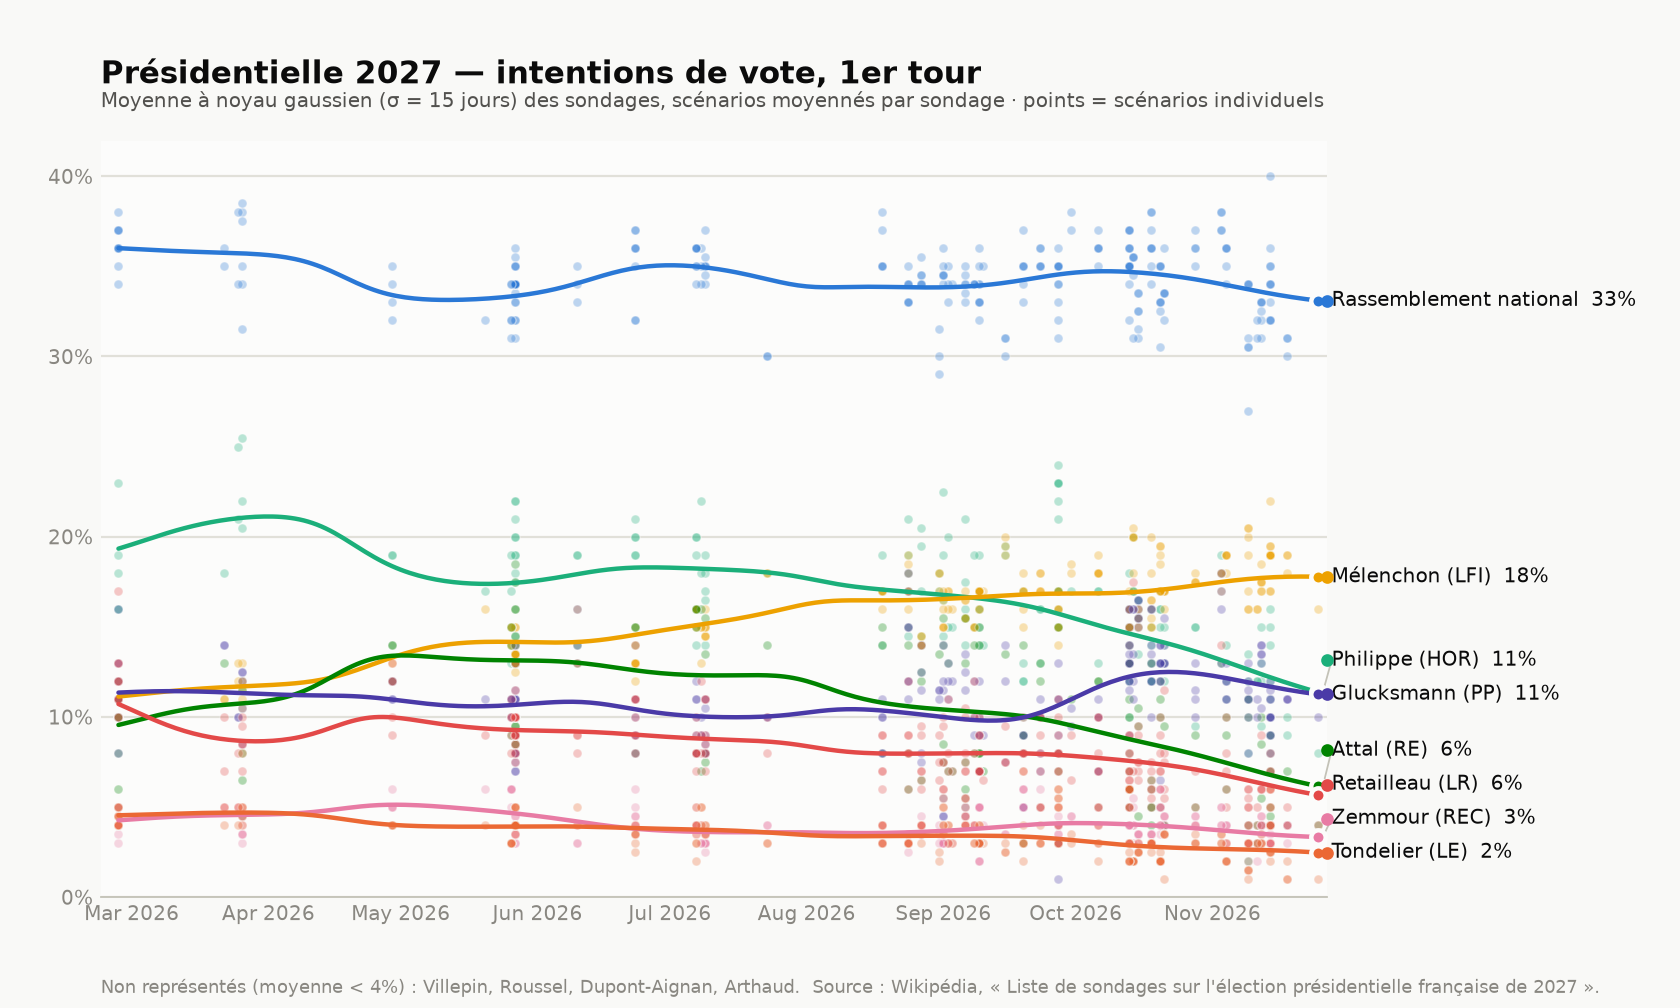
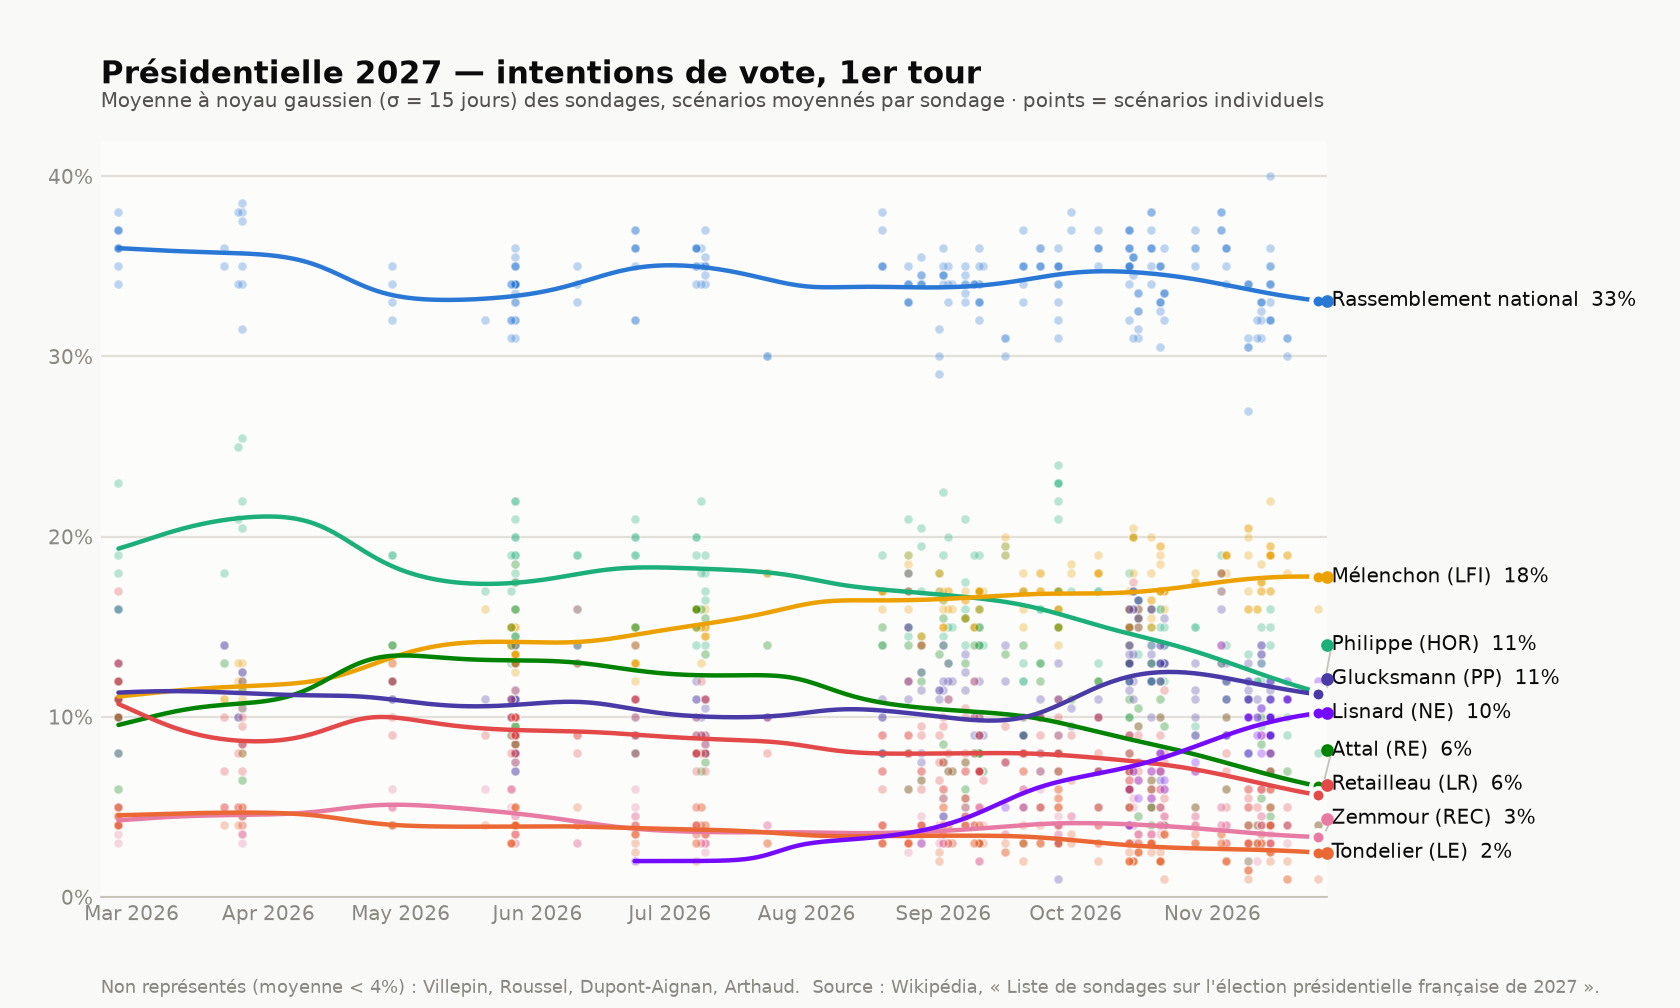
Plot Lisnard on the first-round charts
Lisnard_NE now polls 8-14% in the October-November tables, so he joins
SERIES in visualize_polls.py and appears on the trend, recent-trend and
per-pollster charts. He keeps the colour already validated for the runoff
charts; visualize_second_round.py now reads it from SERIES.

Each smoothed first-round line now starts at that candidate's own first
poll instead of the chart's start date, so Lisnard's line no longer
extrapolates a flat 2% back to March.

Re-checked against the live Wikipedia page (2026-11-28): no new polls
since deb2c53. The only difference is the known "OpinonWay" typo, which
stays corrected.

diff --git a/visualize_polls.py b/visualize_polls.py
@@ -45,6 +45,12 @@ SERIES = {
     "Retailleau_LR": ("Retailleau (LR)",        "#e34948", "#e66767"),
     "Zemmour_REC":   ("Zemmour (REC)",          "#e87ba4", "#d55181"),
     "Tondelier_LE":  ("Tondelier (LE)",         "#eb6834", "#d95926"),
+    # Added 2026-11-28: Lisnard now polls 8-14% in the October-November
+    # tables. Colour carried over unchanged from visualize_second_round.py,
+    # where it was validated (OKLCH sweep, port of validate_palette.js) against
+    # all eight colours above plus Ruffin and Hollande: worst CVD dE 8.6 light
+    # / 8.0 dark (deutan, vs. RN), lightness, chroma and contrast PASS.
+    "Lisnard_NE":    ("Lisnard (NE)",           "#740bfe", "#7a3ffe"),
 }
 
 # Consistently minor candidates left off the chart (kept in the footnote so
@@ -197,8 +203,12 @@ def plot_trend(poll_means, raw_points, theme, dark, sigma, out, title, subtitle)
         xs, ys = zip(*raw_points[cand])
         ax.scatter(xs, ys, s=16, color=color, alpha=0.3,
                    edgecolors=theme["surface"], linewidths=0.6, zorder=2)
-        smooth = gaussian_smooth(pts, grid, sigma)
-        ax.plot(grid, smooth, color=color, linewidth=2,
+        # Start the line at the candidate's own first poll: a late entrant
+        # (Lisnard, first polled late June 2026) would otherwise get a flat
+        # line extrapolated back to the start of the chart.
+        cand_grid = [t for t in grid if t >= pts[0][0]]
+        smooth = gaussian_smooth(pts, cand_grid, sigma)
+        ax.plot(cand_grid, smooth, color=color, linewidth=2,
                 solid_capstyle="round", solid_joinstyle="round", zorder=3)
         # end marker with a surface ring so it survives line crossings
         ax.scatter([grid[-1]], [smooth[-1]], s=42, color=color, zorder=4,

diff --git a/visualize_second_round.py b/visualize_second_round.py
@@ -54,16 +54,9 @@ CHALLENGERS = {
     # for the whole set are the pre-existing Ruffin/Attal (light) and
     # RN/Glucksmann, Ruffin/Melenchon (dark) pairs, not this slot.
     "Hollande_PS":    ("Hollande (PS)", "#991b5e", "#b43d83"),
-    # Lisnard has no first-round SERIES slot (consistently minor there), so this
-    # is a fresh pick, swept in OKLCH against the nine other committed colors
-    # with a Python port of validate_palette.js's exact math (node is not
-    # available in this environment; the port was sanity-checked by round-
-    # tripping every already-committed hex through it before use). Light
-    # #740bfe: worst CVD dE 8.6 (deutan, vs. RN), worst normal-vision dE 15.2
-    # (vs. Glucksmann); contrast 6.35. Dark #7a3ffe: worst CVD dE 8.0 (deutan,
-    # vs. RN), worst normal-vision dE 15.9 (vs. Glucksmann); contrast 3.29.
-    # Lightness band, chroma floor and contrast all PASS in both modes.
-    "Lisnard_NE":     ("Lisnard (NE)", "#740bfe", "#7a3ffe"),
+    # Lisnard's colour now lives in the first-round SERIES (see the
+    # validation note there).
+    "Lisnard_NE":     SERIES["Lisnard_NE"],
 }
 
 RN_CANDIDATES = {

diff --git a/CLAUDE.md b/CLAUDE.md
@@ -116,7 +116,8 @@ annotation rows over 15- and 16-column tables).
 ## Visualizations
 
 `visualize_polls.py` reads `polls_2027_presidential_first_round.csv` and
-renders three PNGs: the overall trend (Gaussian-smoothed per candidate), a
+renders three PNGs: the overall trend (Gaussian-smoothed per candidate, each
+line starting at that candidate's first poll), a
 recent-period zoom (`--recent-days`), and a per-pollster comparison (latest
 poll per institute + a smoothed-average row). `visualize_second_round.py`
 reads `polls_2027_second_round.csv` and renders a trend chart (each
@@ -125,7 +126,8 @@ and a snapshot chart (most recent poll per match-up, as a stacked bar split
 at the 50% majority line, restricted to the RN candidates in
 `SNAPSHOT_RN_CANDIDATES` — Le Pen only, since Bardella is no longer running). Both scripts share the `SERIES` color/label map
 and `THEMES` (light/dark) from `visualize_polls.py`, so a candidate's color
-is consistent across every chart in the repo — reuse those rather than
+is consistent across every chart in the repo (Lisnard is in `SERIES` and
+must stay on the first-round charts, at the user's request) — reuse those rather than
 hand-rolling new colors for a candidate who already appears elsewhere. Any
 genuinely new color (e.g. Ruffin, who only appears in runoff polls) must be
 checked with the dataviz skill's `scripts/validate_palette.js` against the

diff --git a/README.md b/README.md
@@ -76,6 +76,11 @@ same way Villepin's are (see below), so their series is continuous back to
 their first poll appearance rather than starting only once they had a column
 of their own.
 
+As of 2026-11-28 Lisnard is also a plotted series on all three first-round
+charts (same color as on the runoff charts). Each smoothed trend line starts
+at that candidate's own first poll, so Lisnard's starts at the 22–24 June
+Ifop poll instead of being extrapolated back to March.
+
 Starting with the 7–8 July 2026 polls (Wikipedia's "Second semestre 2026"
 sub-table), the table switched the RN column from a hypothetical "candidate"
 placeholder to Marine Le Pen by name and dropped the Dominique de Villepin
